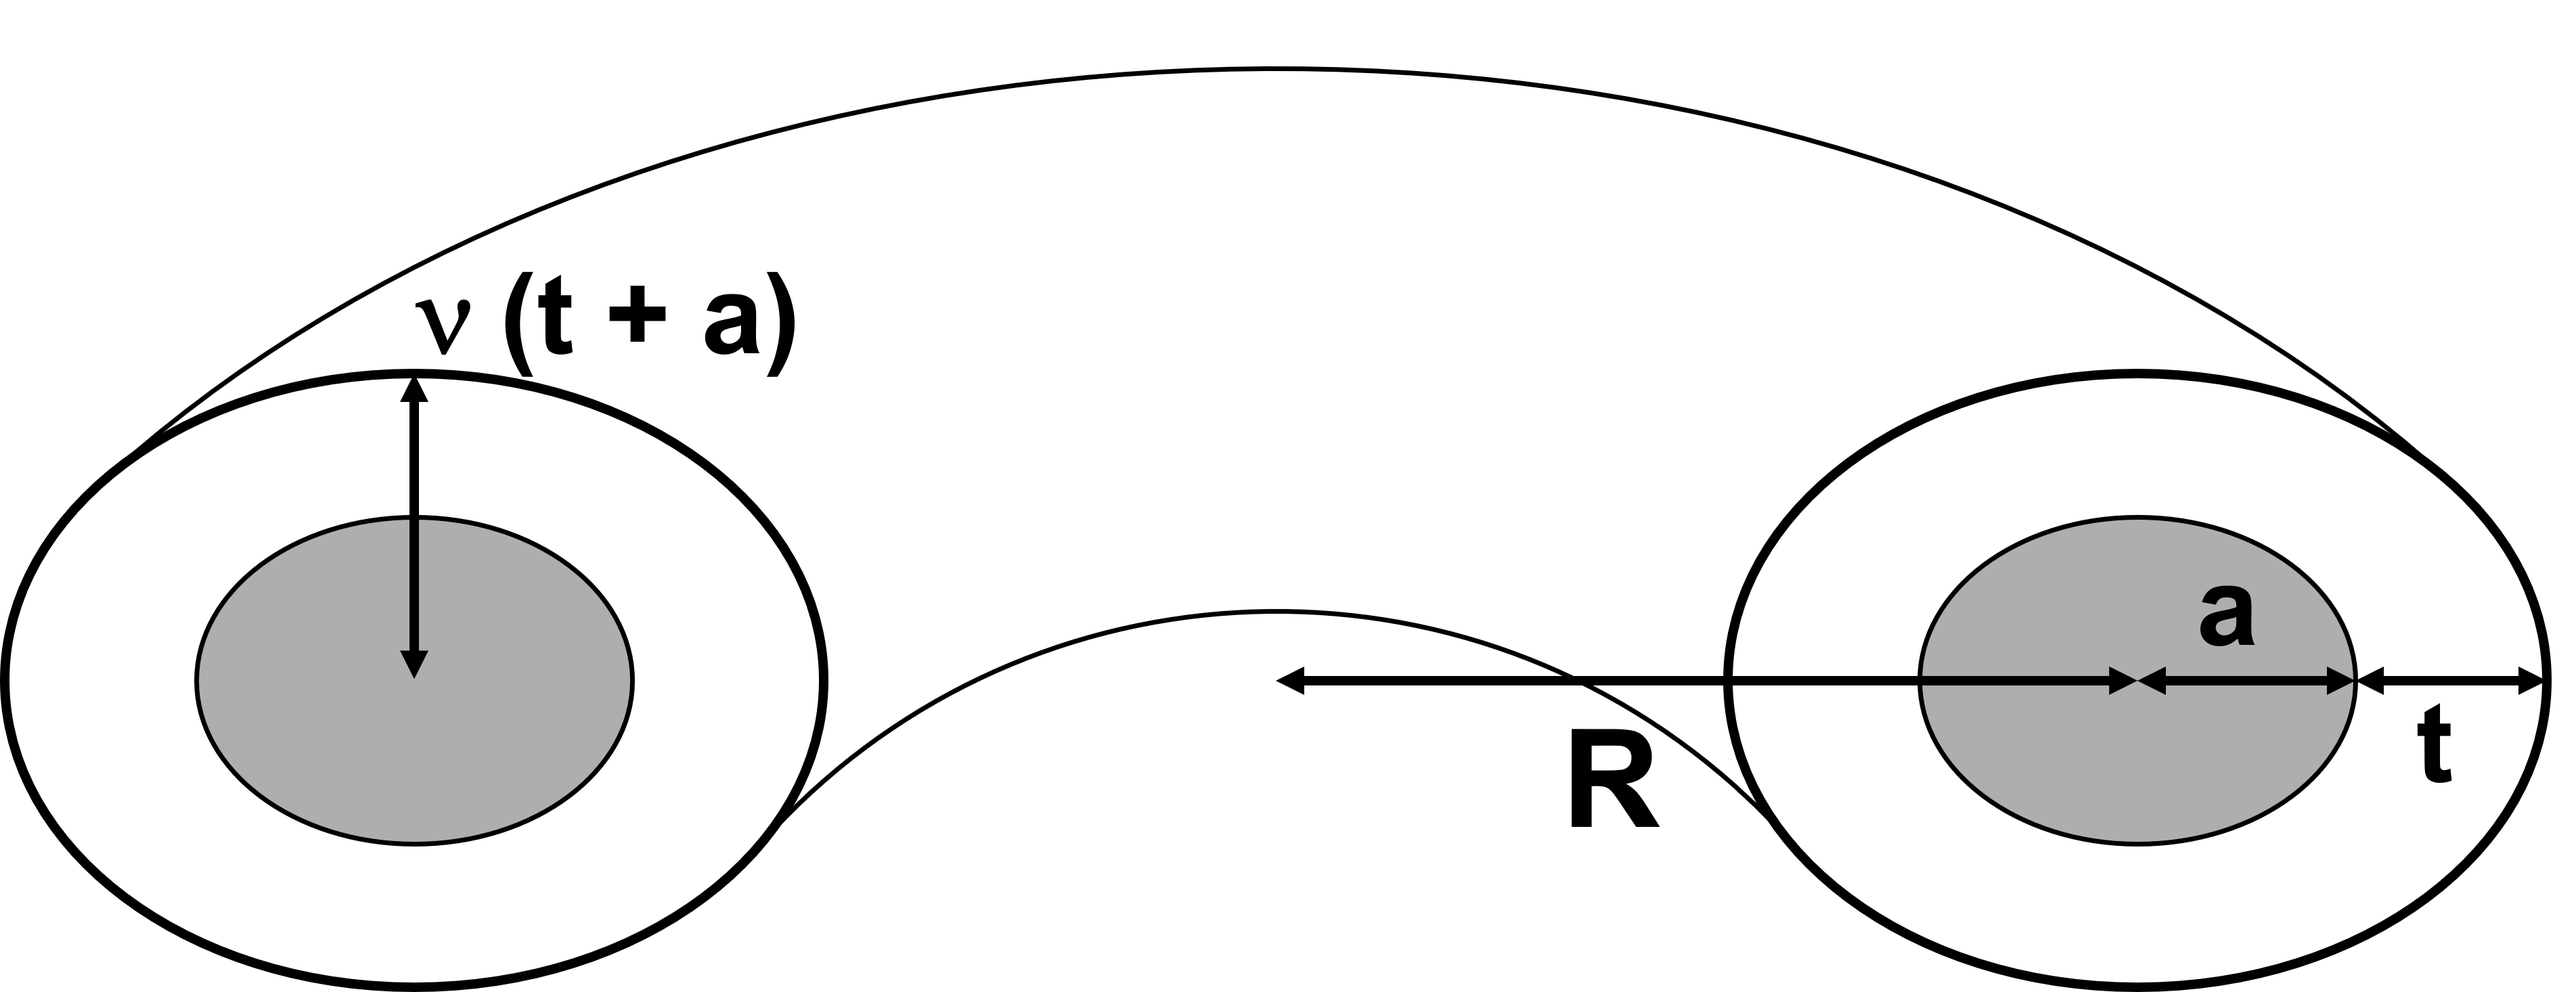
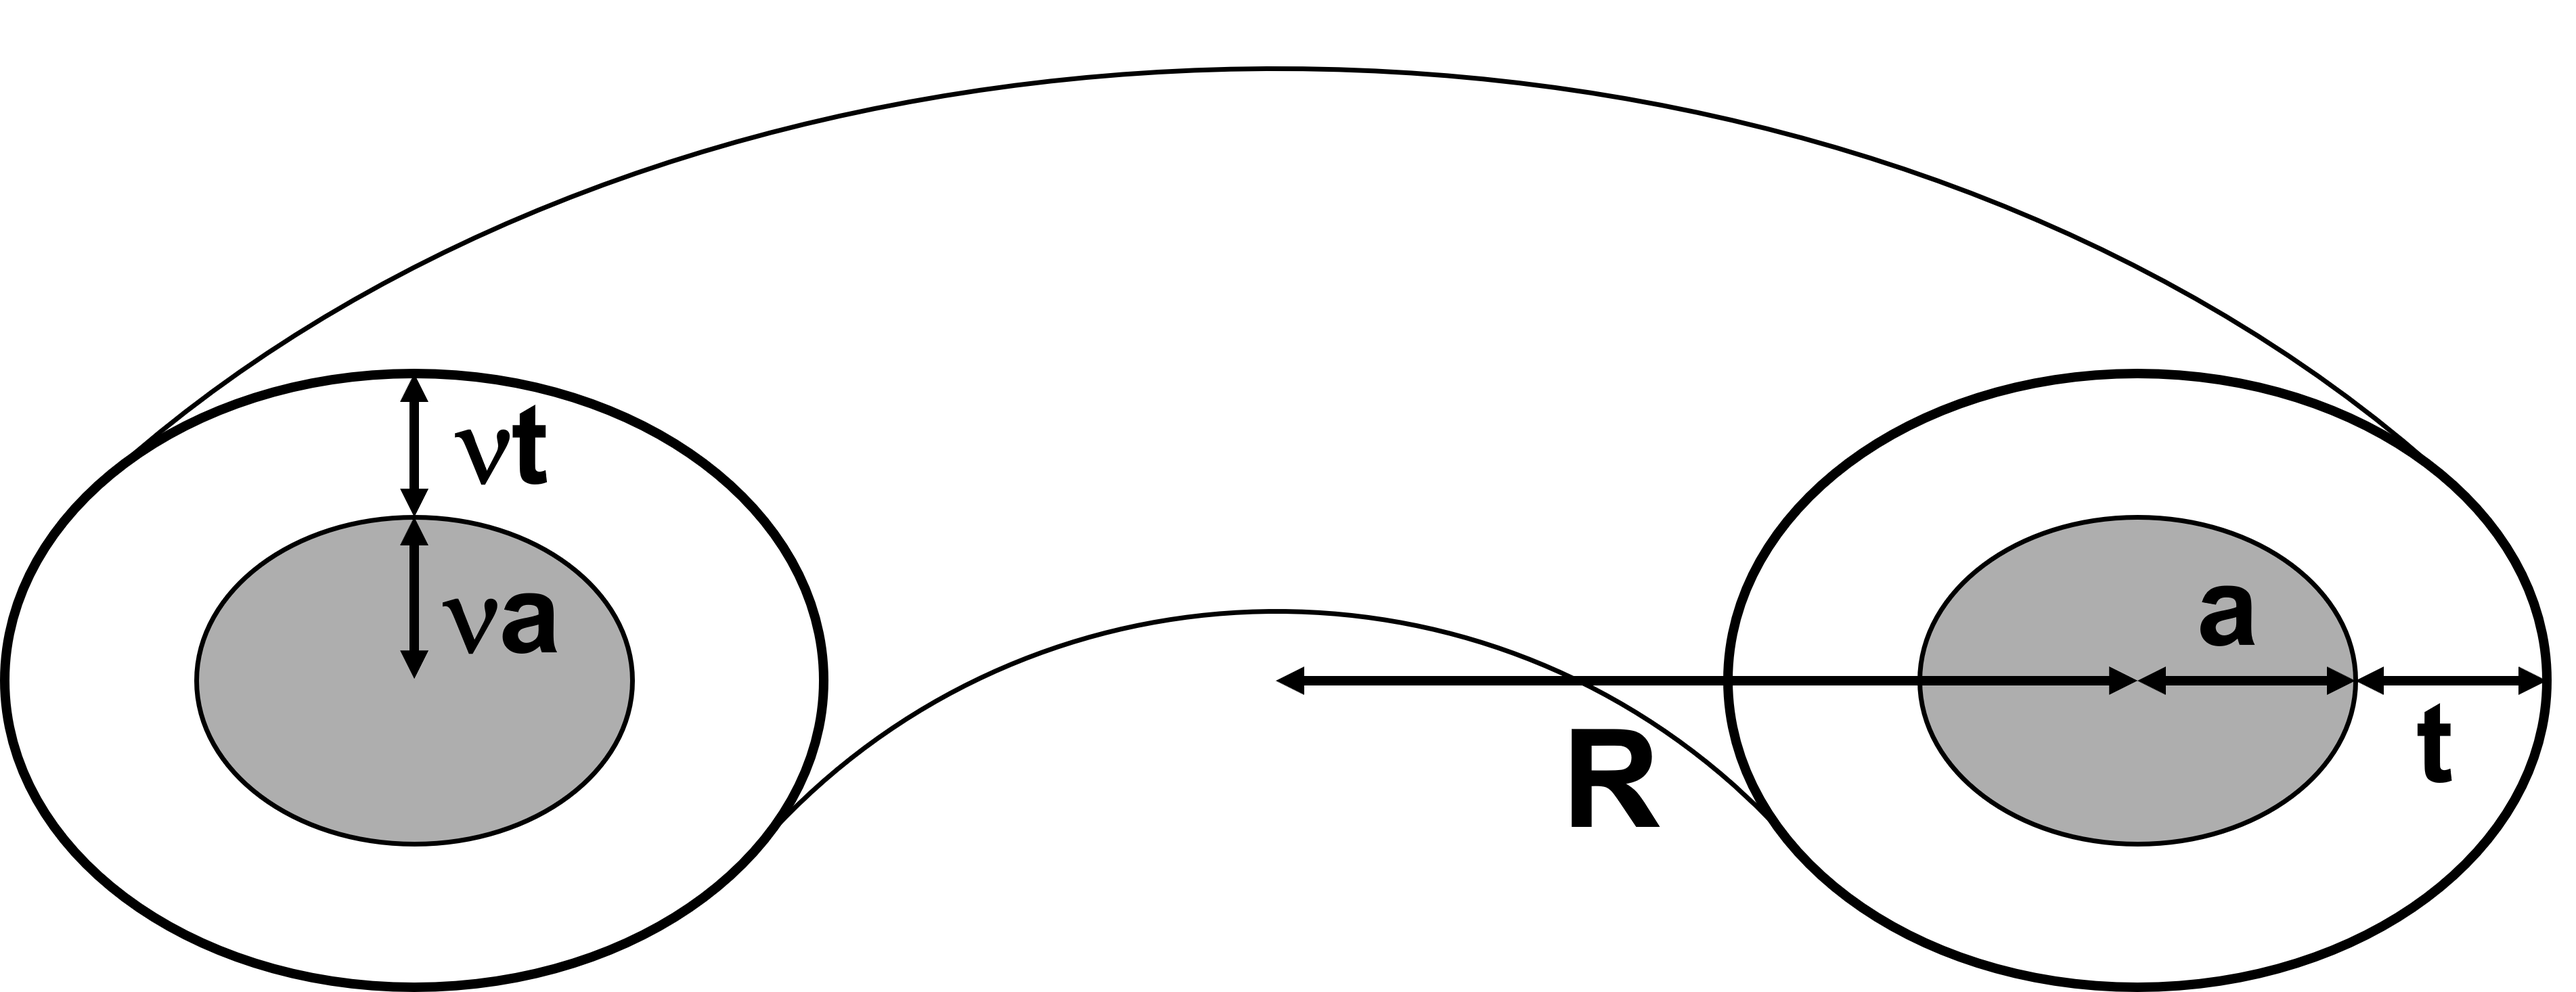
feat: separate nu value into core_nu and shell_nu.

Changed region(s): [[0.155, 0.2763, 0.31, 0.3683], [0.155, 0.5832, 0.217, 0.6753], [0.155, 0.399, 0.217, 0.4911]]

diff --git a/sasmodels/models/torus_elliptical_shell.c b/sasmodels/models/torus_elliptical_shell.c
@@ -1,29 +1,35 @@
 static double form_volume(double radius, double core_radius, double thickness,
-                          double nu) {
+                          double nu_core, double nu_shell) {
+  double nu_outer =
+      (nu_shell * thickness + nu_core * core_radius) /
+      (thickness + core_radius);  // aspect ratio of the outer ellipse
   double ao = core_radius + thickness;
-  double bo = nu * ao;
+  double bo = nu_outer * ao;
   double area = M_PI * ao * bo;
   return 2.0 * M_PI * radius * area;
 }
 
-static double radius_from_volume(double volume, double core_radius,
-                                 double thickness, double nu) {
-  return cbrt(form_volume(1.0, core_radius, thickness, nu) / M_4PI_3);
+static double radius_from_volume(double core_radius, double thickness,
+                                 double nu_core, double nu_shell) {
+  return cbrt(form_volume(1.0, core_radius, thickness, nu_core, nu_shell) /
+              M_4PI_3);
 }
 
 static double radius_from_diagonal(double radius, double core_radius,
-                                   double thickness, double nu) {
+                                   double thickness, double nu_core,
+                                   double nu_shell) {
   return radius + core_radius + thickness;
 }
 
 static double radius_effective(int mode, double radius, double core_radius,
-                               double thickness, double nu) {
+                               double thickness, double nu_core,
+                               double nu_shell) {
   switch (mode) {
     case 1:
-      return radius_from_diagonal(radius, core_radius, thickness, nu);
+      return radius_from_diagonal(radius, core_radius, thickness, nu_core,
+                                  nu_shell);
     case 2:
-      return radius_from_volume(form_volume(radius, core_radius, thickness, nu),
-                                core_radius, thickness, nu);
+      return radius_from_volume(core_radius, thickness, nu_core, nu_shell);
     default:
       return radius;
   }
@@ -61,8 +67,9 @@ static double F_torus(double Q, double theta, double R, double x, double nu,
 }
 
 static void Fq(double q, double* F1, double* F2, double radius,
-               double core_radius, double thickness, double nu, double sld_core,
-               double sld_shell, double sld_solvent) {
+               double core_radius, double thickness, double nu_core,
+               double nu_shell, double sld_core, double sld_shell,
+               double sld_solvent) {
   // F2 = integral_{0}^{pi / 2}
   //  | F_torus(Q, theta, R, core_radius + thickness, nu, sld_shell -
   //  sld_solvent)   // shell
@@ -71,13 +78,18 @@ static void Fq(double q, double* F1, double* F2, double radius,
   //  |^2 dtheta
   double F_diff = 0.0, theta = 0.0, F1_total = 0.0, F2_total = 0.0;
 
+  double nu_outer =
+      (nu_shell * thickness + nu_core * core_radius) /
+      (thickness + core_radius);  // aspect ratio of the outer ellipse
+
   for (int i = 0; i < GAUSS_N; i++) {
     // translate a point in[-1, 1] to a point in[0, pi / 2]
     theta = GAUSS_Z[i] * M_PI_4 + M_PI_4;
 
-    F_diff = F_torus(q, theta, radius, core_radius + thickness, nu,
-                     sld_shell - sld_solvent) -
-             F_torus(q, theta, radius, core_radius, nu, sld_shell - sld_core);
+    F_diff =
+        F_torus(q, theta, radius, core_radius + thickness, nu_outer,
+                sld_shell - sld_solvent) -
+        F_torus(q, theta, radius, core_radius, nu_core, sld_shell - sld_core);
 
     F1_total += GAUSS_W[i] * F_diff * sin(theta);
     F2_total += GAUSS_W[i] * square(F_diff) * sin(theta);
@@ -90,10 +102,10 @@ static void Fq(double q, double* F1, double* F2, double radius,
 }
 
 static double Iq(double q, double radius, double core_radius, double thickness,
-                 double nu, double sld_core, double sld_shell,
-                 double sld_solvent) {
+                 double nu_core, double nu_shell, double sld_core,
+                 double sld_shell, double sld_solvent) {
   double F1 = 0.0, F2 = 0.0;
-  Fq(q, &F1, &F2, radius, core_radius, thickness, nu, sld_core, sld_shell,
-     sld_solvent);
+  Fq(q, &F1, &F2, radius, core_radius, thickness, nu_core, nu_shell, sld_core,
+     sld_shell, sld_solvent);
   return F2;
 }

diff --git a/sasmodels/models/torus_elliptical_shell.py b/sasmodels/models/torus_elliptical_shell.py
@@ -9,15 +9,17 @@ The geometric parameters are:
 
 * $R$: major (ring) radius of the torus centerline
 * $a$: core minor radius in the radial direction
-* $\nu$: aspect ratio of the elliptical cross-section
+* $\nu_{core}$: aspect ratio of the elliptical core cross-section
+* $\nu_{shell}$: aspect ratio of the elliptical shell cross-section
 * $t$: shell thickness
 
 .. figure:: img/torus_elliptical_shell_geometry.png
 
     Schematic geometry of the torus with elliptical tube cross-section.
 
-The same aspect ratio $\nu$ is used for both the core and outer cross-sections,
-so the outer semi-axes are $a+t$ and $\nu(a+t)$.
+The core and shell have independent aspect ratios, so the core semi-axes are
+$a$ and $\nu_{core} \cdot a$, and the outer semi-axes are $a+t$ and
+$\nu_{core} \cdot a + \nu_{shell} \cdot t$.
 
 For a given orientation angle $\theta$ between the torus symmetry axis and
 $\vec q$, the kernel evaluates the amplitude using a numerical integral over
@@ -25,10 +27,11 @@ the tube section:
 
 .. math::
 
-    F(q,\theta; x, \Delta\rho)
+    F(q,\theta; x, \Delta\rho, \nu)
     = 4\pi\,\Delta\rho\int_{R-x}^{R+x}
       r\,J_0\!\left(qr\sin\theta\right)
       \frac{\sin\!\left(q\,\gamma\cos\theta\right)}{q\cos\theta}\,dr
+
 
 with
 
@@ -36,28 +39,24 @@ with
 
     \gamma = \nu\sqrt{x^2-(r-R)^2}
 
+
 The core-shell amplitude is formed from outer and inner contributions:
 
 .. math::
 
     F_{cs}(q,\theta) =
-    F\!\left(q,\theta;a + t,\rho_{shell}-\rho_{solvent}\right)
-    -F\!\left(q,\theta;a,\rho_{shell}-\rho_{core}\right)
+    F\!\left(q,\theta;a + t,\rho_{shell}-\rho_{solvent},\nu_{outer}\right)
+    -F\!\left(q,\theta;a,\rho_{shell}-\rho_{core},\nu_{core}\right)
+
+
+where $\nu_{outer} = \frac{\nu_{shell}t + \nu_{core}a}{a+t}$ is the aspect ratio of the outer ellipse.
 
 and the orientationally averaged intensity is
 
 .. math::
 
-    I(q) = S(q)\int_0^{\pi/2}\!\left|F_{cs}(q,\theta)\right|^2\sin\theta\,d\theta
+    I(q) = \int_0^{\pi/2}\!\left|F_{cs}(q,\theta)\right|^2\sin\theta\,d\theta
 
-where
-
-.. math::
-
-    S(q)=1+\frac{\kappa}{1+(q\zeta)^2}
-
-Here $S(q)$ represents the structure factor accounting for
-interparticle correlations.
 
 References
 ----------
@@ -91,7 +90,8 @@ parameters = [
         "Elliptical core minor radius a",
     ],
     ["thickness", "Ang", 2.0, [0, inf], "volume", "Shell thickness"],
-    ["nu", "", 1.0, [0.1, 10.0], "volume", "Aspect ratio b/a"],
+    ["nu_core", "", 1.0, [0.1, 10.0], "volume", "Aspect ratio b/a"],
+    ["nu_shell", "", 1.0, [0.1, 10.0], "volume", "Aspect ratio of shell cross-section"],
     ["sld_core", "1e-6/Ang^2", 0.0, [-inf, inf], "sld", "Core SLD"],
     ["sld_shell", "1e-6/Ang^2", 1.0, [-inf, inf], "sld", "Shell SLD"],
     ["sld_solvent", "1e-6/Ang^2", 0.0, [-inf, inf], "sld", "Solvent SLD"],
